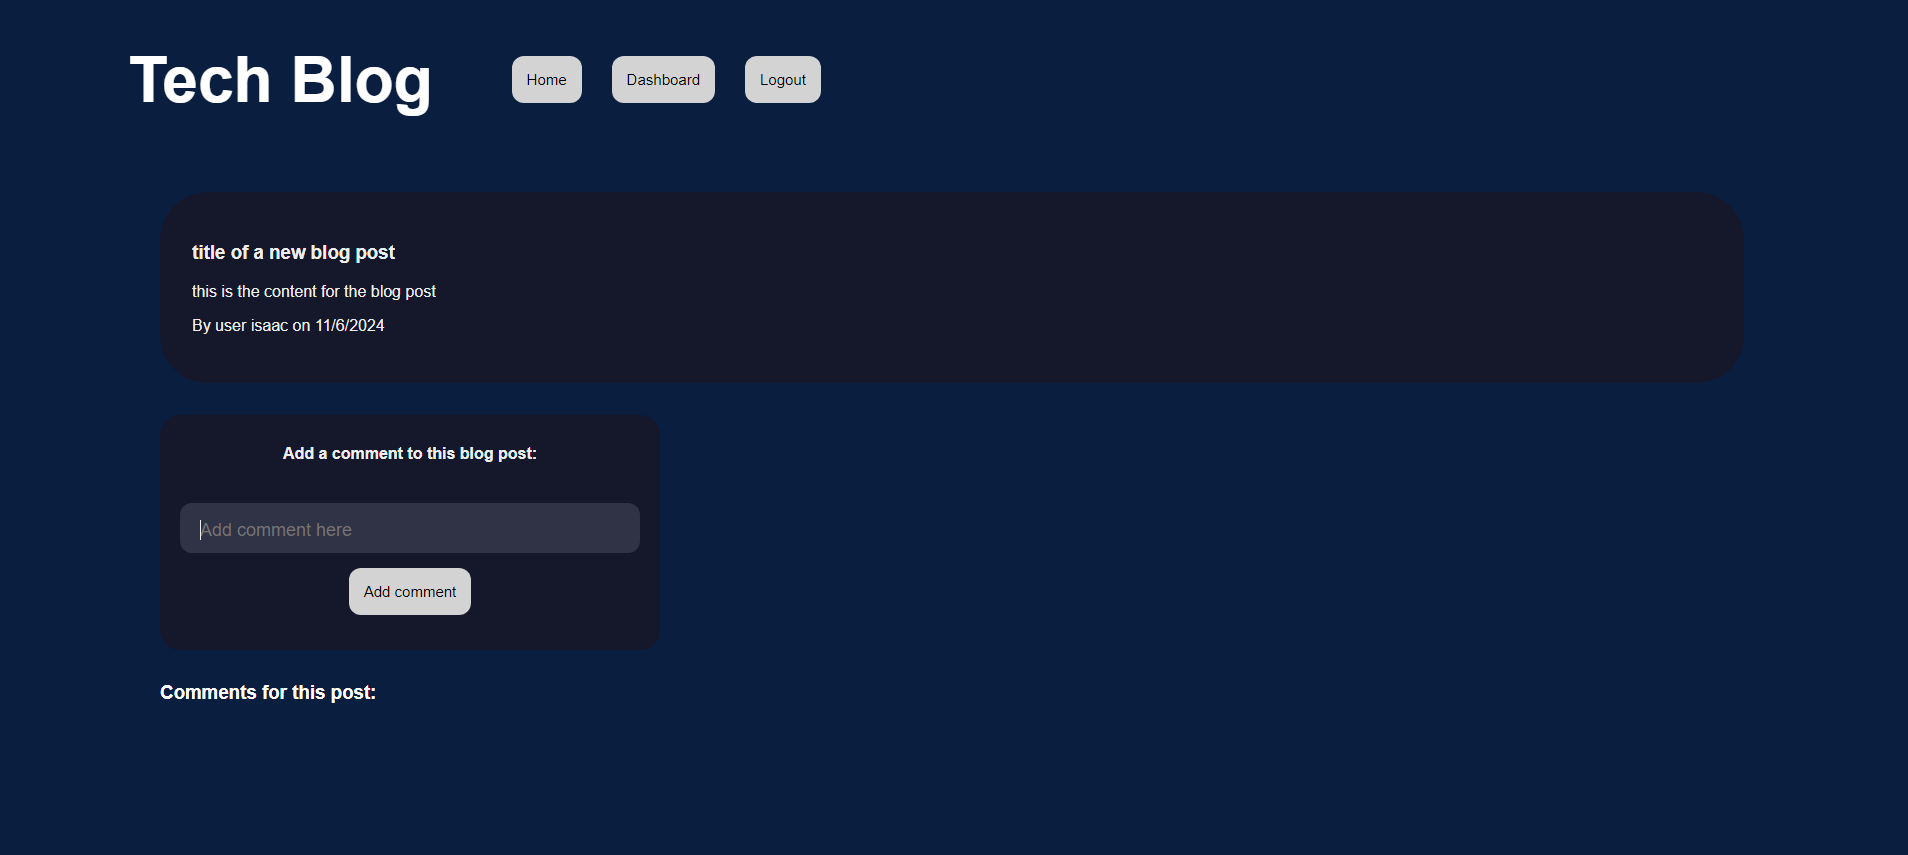
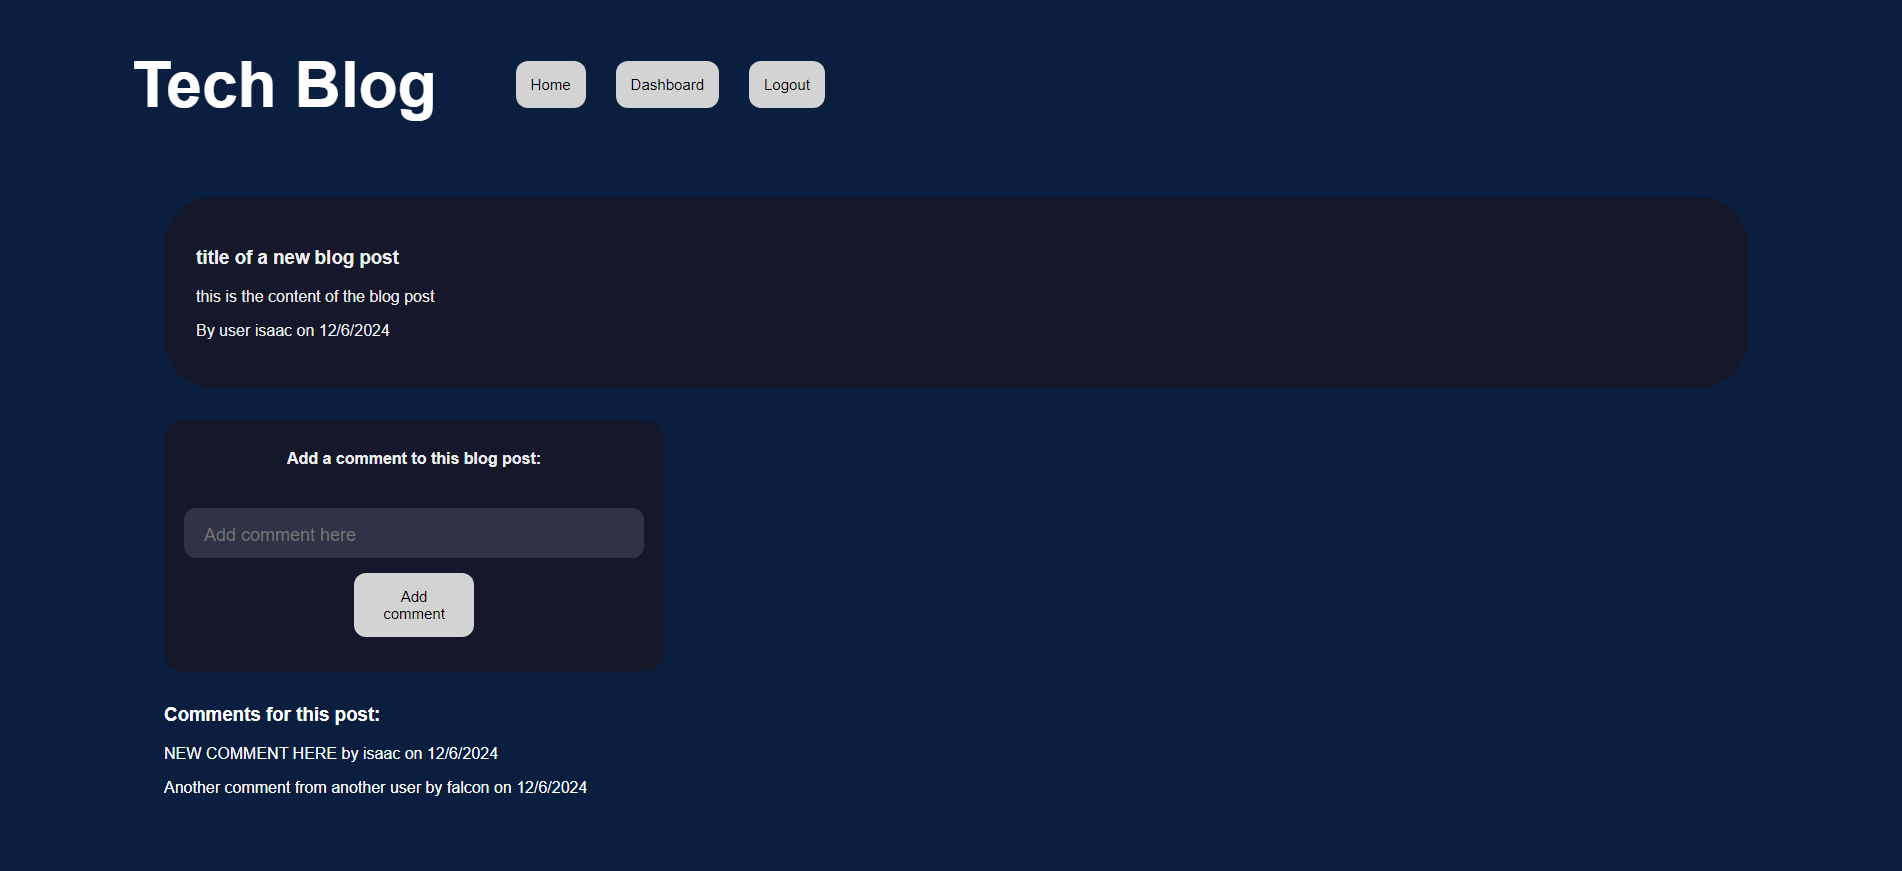
Fixed bug where comment date was not showing correctly

diff --git a/public/js/addComment.js b/public/js/addComment.js
@@ -1,31 +1,27 @@
 // JS file to handle the logic for adding a comment
 
-async function addCommentHandler(event) {
+const addCommentHandler = async (event) => {
     event.preventDefault();
 
     const post_id = window.location.pathname.split('/')[2];
-
     const commentContent = document.querySelector('#commentContent').value.trim();
 
-    const currentDate = new Date();
-    const creationDate = `${new Date(currentDate).getDate()}/${new Date(currentDate).getMonth() + 1}/${new Date(currentDate).getFullYear()}`;
-
     if (commentContent) {
-        const response = await fetch('/api/comments', {
+
+        const response = await fetch(`/api/comments`, {
             method: 'POST',
-            body: JSON.stringify({
-                post_id,
-                commentContent,
-                creationDate
-            }),
-            headers: {
-                'Content-Type': 'application/json'
-            }
+            body: JSON.stringify({ commentContent, post_id }),
+            headers: { 'Content-Type': 'application/json' },
         });
 
-        document.location.reload();
+        if (response.ok) {
+            document.location.reload();
 
+        } else {
+            alert(`Failed to add comment`);
+        }
     }
-}
 
-document.querySelector('#addComment').addEventListener('click', addCommentHandler);
+};
+
+document.querySelector('.comment-form').addEventListener('submit', addCommentHandler);

diff --git a/controllers/api/commentRoutes.js b/controllers/api/commentRoutes.js
@@ -22,10 +22,9 @@ router.get('/', async (req, res) => {
 router.post('/', async (req, res) => {
     try {
         const commentData = await Comment.create({
-            content: req.body.content,
+            commentContent: req.body.commentContent,
             post_id: req.body.post_id,
             user_id: req.session.user_id,
-            creationDate: req.body.creationDate,
         });
 
         res.status(200).json(commentData);
@@ -33,6 +32,24 @@ router.post('/', async (req, res) => {
     } catch (err) {
         console.log(err);
         res.status(500).json(err);
+    }
+});
+
+router.post(`/`, async (req, res) => {
+    try {
+
+        const parsedId = parseInt(req.body.postId);
+
+        const commentData = await Comment.create({
+            content: req.body.commentContent,
+            user_id: req.session.user_id,
+            post_id: parsedId,
+        });
+
+        res.status(200).json(commentData);
+
+    } catch (error) {
+        res.status(400).json(error);
     }
 });
 

diff --git a/public/js/dashboard.js b/public/js/dashboard.js
@@ -1,6 +1,5 @@
 // JS file to handle the logic for adding a post from the dashboard page
 
-let popUpForm = document.getElementById("popUpForm");
 let button = document.getElementById("addPost");
 
 button.addEventListener("click", function () {
@@ -19,8 +18,14 @@ const addBlogPostHandler = async (event) => {
             body: JSON.stringify({ title, content }),
             headers: { 'Content-Type': 'application/json' },
         });
+
+        if (response.ok) {
+            document.location.reload();
+
+        } else {
+            alert(`Failed to add post.`);
+        }
     }
-    location.reload();
 };
 
 document.querySelector('.addPost-form').addEventListener('submit', addBlogPostHandler);

diff --git a/controllers/homeRoutes.js b/controllers/homeRoutes.js
@@ -15,7 +15,7 @@ router.get('/', async (req, res) => {
         },
         {
           model: Comment,
-          attributes: ['id', 'commentContent', 'post_id', 'user_id'],
+          attributes: ['id', 'commentContent', 'post_id', 'user_id', 'commentDate'],
           include: {
             model: User,
             attributes: ['user']
@@ -89,7 +89,7 @@ router.get('/posts/:id', async (req, res) => {
         },
         {
           model: Comment,
-          attributes: ['id', 'commentContent', 'post_id', 'user_id'],
+          attributes: ['id', 'commentContent', 'post_id', 'user_id', 'commentDate'],
           include: {
             model: User,
             attributes: ['user']

diff --git a/models/index.js b/models/index.js
@@ -15,21 +15,25 @@ Post.belongsTo(User, {
     foreignKey: 'user_id',
 });
 
+// Comments belong to the user
 Comment.belongsTo(User, {
     foreignKey: 'user_id',
     onDelete: 'CASCADE',
 });
 
+// A user can have many comments
 User.hasMany(Comment, {
     foreignKey: 'user_id',
     onDelete: 'CASCADE',
 });
 
+// Comments also belong to the post
 Comment.belongsTo(Post, {
     foreignKey: 'post_id',
     onDelete: 'CASCADE',
 });
 
+// Posts can have many comments
 Post.hasMany(Comment, {
     foreignKey: 'post_id',
     onDelete: 'CASCADE',

diff --git a/models/comment.js b/models/comment.js
@@ -19,7 +19,6 @@ Comment.init(
         commentContent: {
             type: DataTypes.STRING,
             allowNull: false,
-            defaultValue: "test comment"
         },
         post_id: {
             type: DataTypes.INTEGER,
@@ -35,7 +34,7 @@ Comment.init(
                 key: 'id'
             }
         },
-        creationDate: {
+        commentDate: {
             type: DataTypes.STRING,
             defaultValue: formattedDate,
         }

diff --git a/utils/helpers.js b/utils/helpers.js
@@ -1,1 +1,1 @@
-// Test file for some utilities throughout development
+// Test file for utilities used throughout development

diff --git a/README.md b/README.md
@@ -15,10 +15,10 @@ By completing this project, I now understand how to create a full stack applicat
 - The application's home page with one example blog post:
 ![Screenshot showing the application's home page](./assets/14-Challenge-Tech-Blog_Homepage.png)
 
-- The log in form (the sign up form is identical):
+- The log in form (the sign up form is identical and accessed by clicking the link at the bottom):
 ![Screenshot showing a user logging in](./assets/14-Challenge-Tech-Blog_Login.png)
 
-- Adding a comment to an existing post (if the user is logged in):
+- Adding a comment to a post (only if the user is logged in):
 ![Screenshot showing a user adding a comment to a blog post](./assets/14-Challenge-Tech-Blog_Post-content.png)
             
 ## Table of Contents
